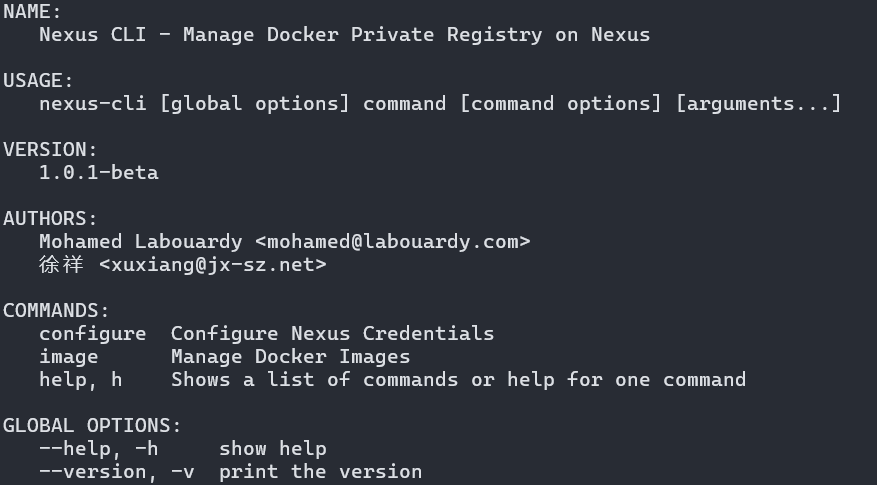
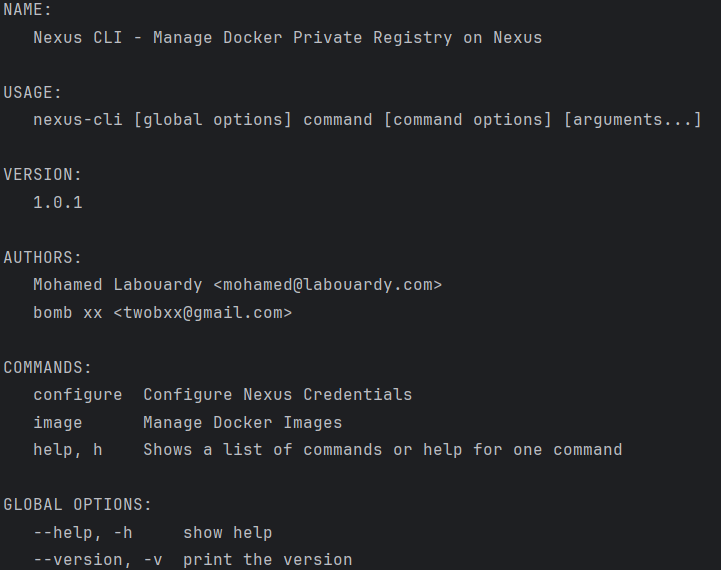
doc: 文档完善和稳定性修复

diff --git a/registry/registry_test.go b/registry/registry_test.go
@@ -29,6 +29,7 @@ func Test_image_prod_del(t *testing.T) {
 	if err != nil {
 		log.Print(err)
 	}
+	prefixFilter := "prod"
 	images, err := r.ListImages()
 	if err != nil {
 		log.Print(err)
@@ -37,7 +38,7 @@ func Test_image_prod_del(t *testing.T) {
 	var prod_images []string
 
 	for _, image := range images {
-		if strings.HasPrefix(image, "prod") {
+		if strings.HasPrefix(image, prefixFilter) {
 			prod_images = append(prod_images, image)
 		}
 	}

diff --git a/main.go b/main.go
@@ -20,14 +20,14 @@ func main() {
 	app := cli.NewApp()
 	app.Name = "Nexus CLI"
 	app.Usage = "Manage Docker Private Registry on Nexus"
-	app.Version = "1.0.1-beta"
+	app.Version = "1.0.1"
 	app.Authors = []cli.Author{
 		{
 			Name:  "Mohamed Labouardy",
 			Email: "mohamed@labouardy.com",
 		},
 		{
-			Name:  "xx",
+			Name:  "bomb xx",
 			Email: "twobxx@gmail.com",
 		},
 	}
